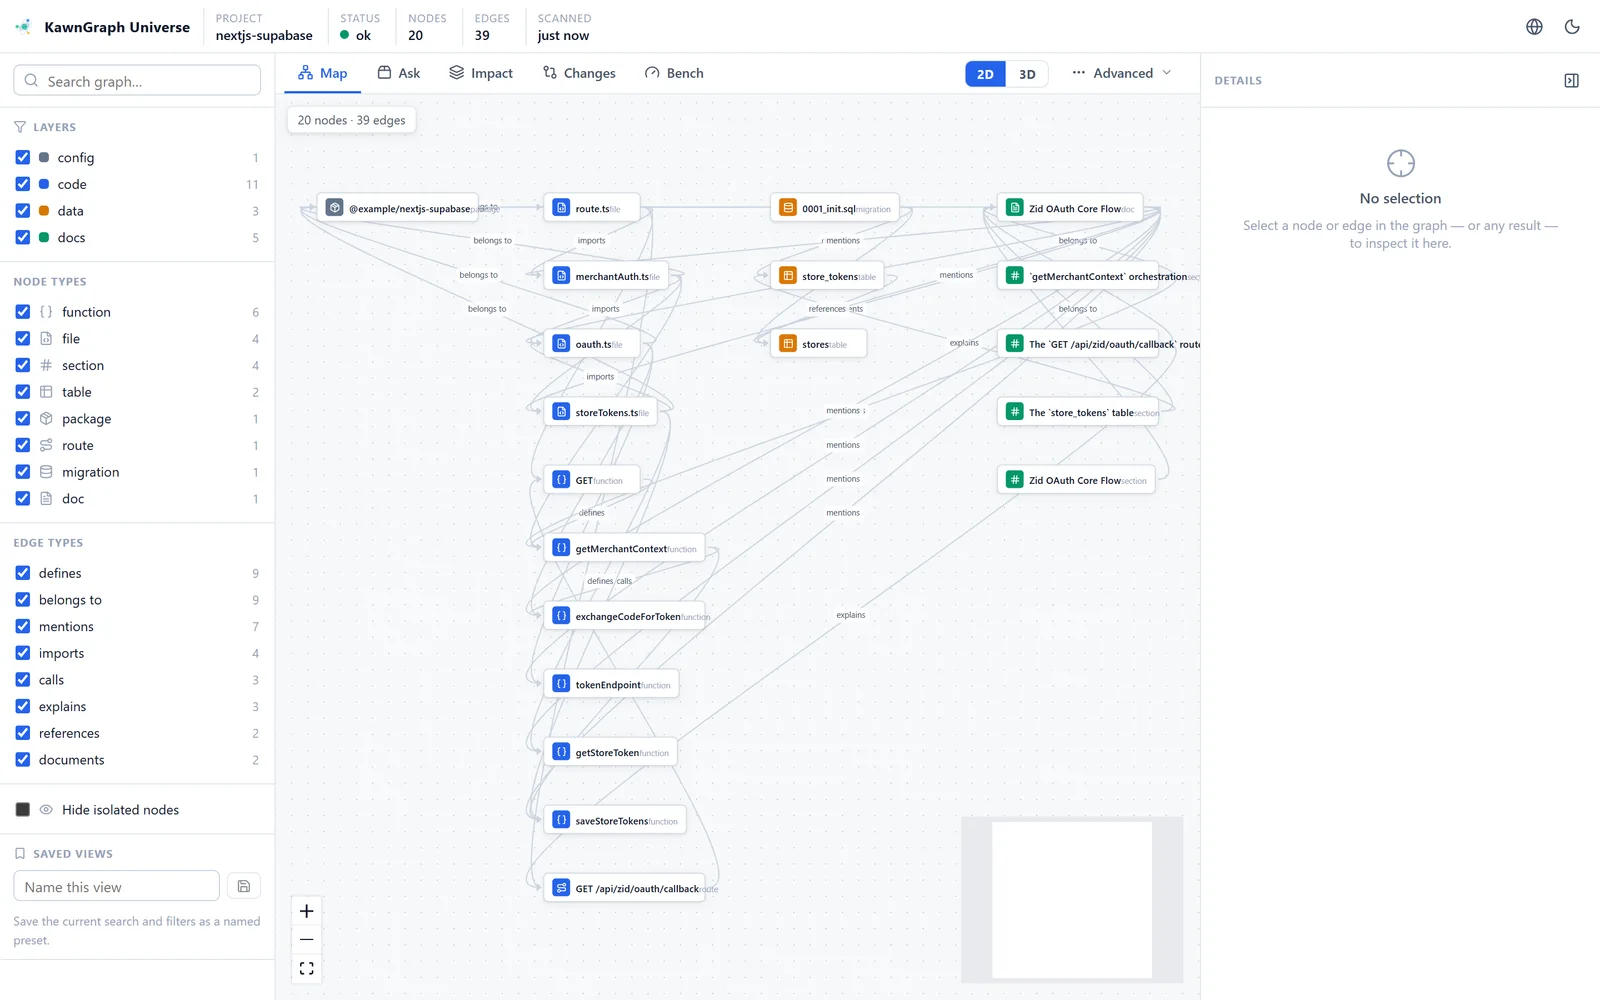
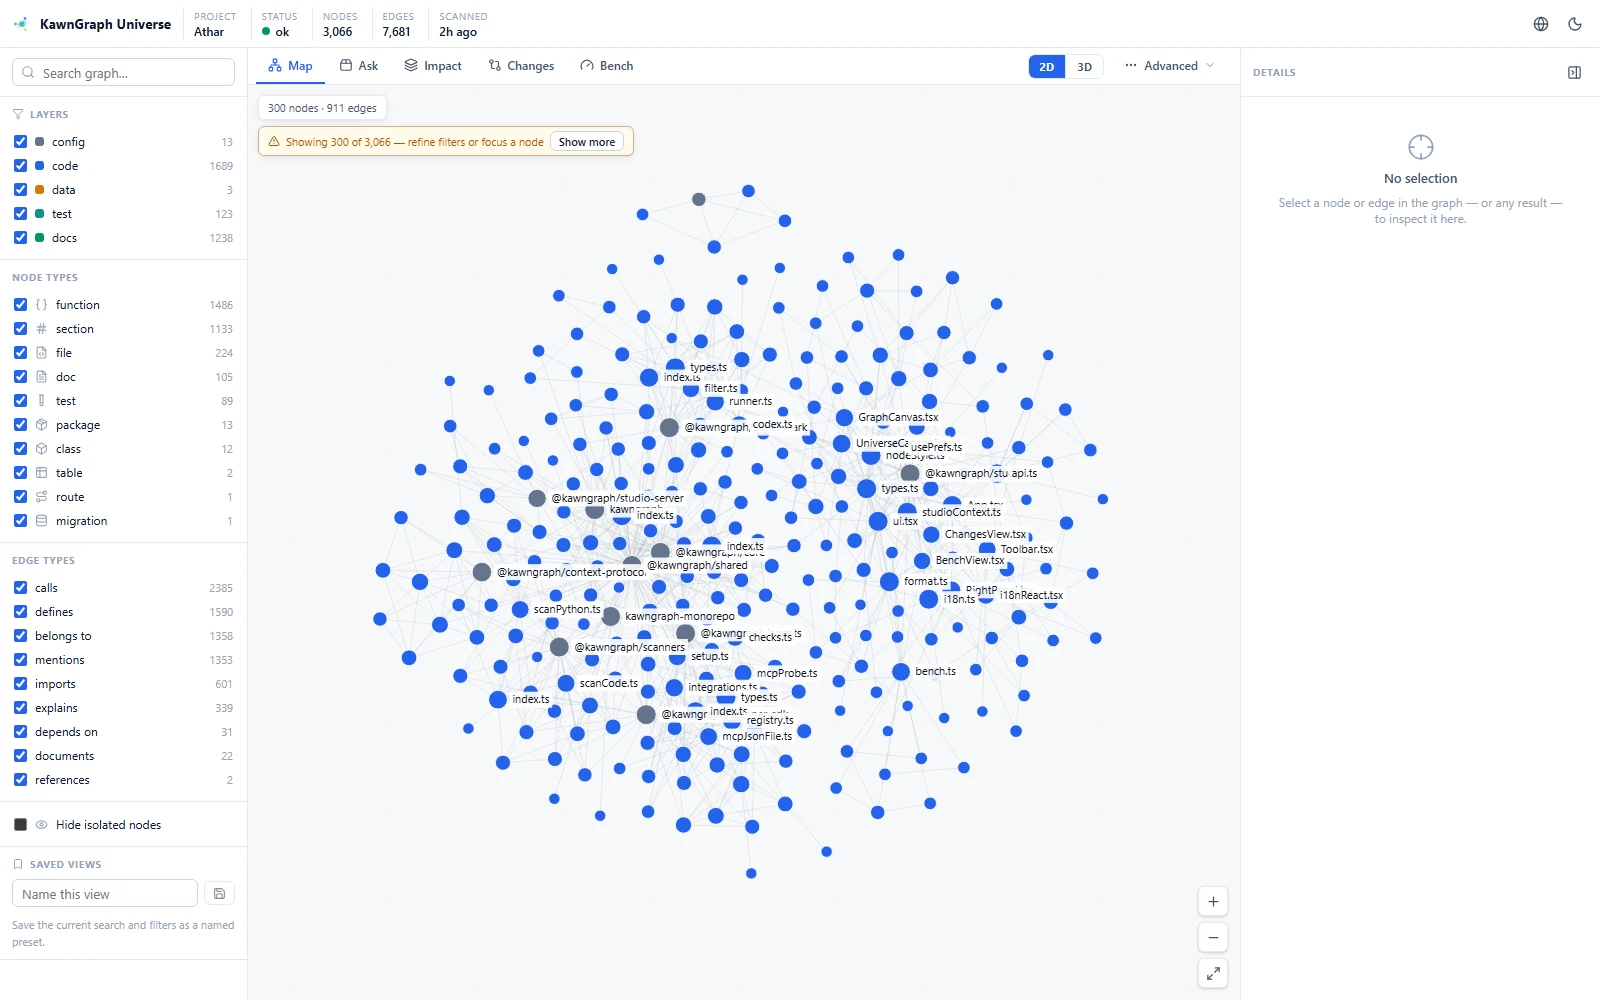
docs(studio): refresh 2D Map screenshot to the constellation view
Replace the old React-Flow boxes screenshot with the new force-directed
constellation Map (captured live from `kawn map`), and fix the now-stale caption
("bundled example project" / "labeled evidence-backed edges") in README.md and
README.ar.md to describe the star-map (nodes coloured by layer, sized by degree,
LOD labels). Re-stamped 30 translations.

Verified: build, 409 tests (parity 247), translation parity 30/30, bench clean.

diff --git a/README.ar.md b/README.ar.md
@@ -2,7 +2,7 @@
 lang: ar
 status: ai-assisted
 canonical: README.md
-canonical-sha: eba313e4ecca3a6d315fe5d39edf1fb854167bc430af5f109c49db7effa99be9
+canonical-sha: fa965807adf98799984ab7bd27028a428bac7355a8bf9ef878d0b0254a71fb90
 -->
 
 <div dir="rtl" align="center">
@@ -223,8 +223,8 @@ Excluded     unrelated UI components (over budget)   ·   confidence 0.6
 </div>
 
 <div align="center">
-<img src="docs/assets/studio-map.webp" alt="استوديو KawnGraph — العرض ثنائي الأبعاد لرسم المشروع المثال المرفق: ملفات ودوال ومسارات وجداول ووثائق كعقد مع حواف مدعومة بالأدلة (imports، calls، defines، mentions، explains)، مع مرشّحات الطبقات/الأنواع/الحواف." width="860">
-<br><sub>العرض <b>ثنائي الأبعاد</b> — المشروع المثال المرفق، مع مرشّحات الطبقات/الأنواع/الحواف.</sub>
+<img src="docs/assets/studio-map.webp" alt="استوديو KawnGraph — خريطة الكوكبة ثنائية الأبعاد: رسم هذا المستودع كخريطة نجوم موجّهة بالقوى، عقد دائرية ملوّنة حسب الطبقة (الأكبر = أعلى ارتباطًا)، حواف رفيعة، تسميات حسب مستوى التكبير، ومرشّحات الطبقات/الأنواع/الحواف." width="860">
+<br><sub>خريطة <b>الكوكبة ثنائية الأبعاد</b> — خريطة نجوم موجّهة بالقوى للرسم البياني (عقد ملوّنة حسب الطبقة، بحجم حسب الارتباط)، مع مرشّحات وبحث وتمرير وتكبير.</sub>
 </div>
 
 ---

diff --git a/README.md b/README.md
@@ -226,8 +226,8 @@ pnpm kawn map`.
 </div>
 
 <div align="center">
-<img src="docs/assets/studio-map.webp" alt="KawnGraph Studio — the 2D graph view of the bundled example project: files, functions, routes, tables, and docs as nodes with labeled evidence-backed edges (imports, calls, defines, mentions, explains), plus layer/type/edge filters." width="860">
-<br><sub>The 2D <b>graph</b> view — the bundled example project, with layer / type / edge filters.</sub>
+<img src="docs/assets/studio-map.webp" alt="KawnGraph Studio — the 2D constellation Map: this repository's graph as a force-directed star-map of circular nodes coloured by layer (bigger = higher-degree), thin edges, level-of-detail labels, and layer/type/edge filters." width="860">
+<br><sub>The 2D <b>constellation Map</b> — a force-directed star-map of the graph (nodes coloured by layer, sized by degree), with filters, search, hover, and zoom.</sub>
 </div>
 
 ---

diff --git a/docs/i18n/README.cs.md b/docs/i18n/README.cs.md
@@ -2,7 +2,7 @@
 lang: cs
 status: machine-assisted
 canonical: README.md
-canonical-sha: eba313e4ecca3a6d315fe5d39edf1fb854167bc430af5f109c49db7effa99be9
+canonical-sha: fa965807adf98799984ab7bd27028a428bac7355a8bf9ef878d0b0254a71fb90
 -->
 
 <div align="center">

diff --git a/docs/i18n/README.da.md b/docs/i18n/README.da.md
@@ -2,7 +2,7 @@
 lang: da
 status: machine-assisted
 canonical: README.md
-canonical-sha: eba313e4ecca3a6d315fe5d39edf1fb854167bc430af5f109c49db7effa99be9
+canonical-sha: fa965807adf98799984ab7bd27028a428bac7355a8bf9ef878d0b0254a71fb90
 -->
 
 <div align="center">

diff --git a/docs/i18n/README.de.md b/docs/i18n/README.de.md
@@ -2,7 +2,7 @@
 lang: de
 status: machine-assisted
 canonical: README.md
-canonical-sha: eba313e4ecca3a6d315fe5d39edf1fb854167bc430af5f109c49db7effa99be9
+canonical-sha: fa965807adf98799984ab7bd27028a428bac7355a8bf9ef878d0b0254a71fb90
 -->
 
 <div align="center">

diff --git a/docs/i18n/README.el.md b/docs/i18n/README.el.md
@@ -2,7 +2,7 @@
 lang: el
 status: machine-assisted
 canonical: README.md
-canonical-sha: eba313e4ecca3a6d315fe5d39edf1fb854167bc430af5f109c49db7effa99be9
+canonical-sha: fa965807adf98799984ab7bd27028a428bac7355a8bf9ef878d0b0254a71fb90
 -->
 
 <div align="center">

diff --git a/docs/i18n/README.es.md b/docs/i18n/README.es.md
@@ -2,7 +2,7 @@
 lang: es
 status: machine-assisted
 canonical: README.md
-canonical-sha: eba313e4ecca3a6d315fe5d39edf1fb854167bc430af5f109c49db7effa99be9
+canonical-sha: fa965807adf98799984ab7bd27028a428bac7355a8bf9ef878d0b0254a71fb90
 -->
 
 <div align="center">

diff --git a/docs/i18n/README.fa.md b/docs/i18n/README.fa.md
@@ -2,7 +2,7 @@
 lang: fa
 status: machine-assisted
 canonical: README.md
-canonical-sha: eba313e4ecca3a6d315fe5d39edf1fb854167bc430af5f109c49db7effa99be9
+canonical-sha: fa965807adf98799984ab7bd27028a428bac7355a8bf9ef878d0b0254a71fb90
 -->
 
 <div dir="rtl">

diff --git a/docs/i18n/README.fi.md b/docs/i18n/README.fi.md
@@ -2,7 +2,7 @@
 lang: fi
 status: machine-assisted
 canonical: README.md
-canonical-sha: eba313e4ecca3a6d315fe5d39edf1fb854167bc430af5f109c49db7effa99be9
+canonical-sha: fa965807adf98799984ab7bd27028a428bac7355a8bf9ef878d0b0254a71fb90
 -->
 
 <div align="center">

diff --git a/docs/i18n/README.fr.md b/docs/i18n/README.fr.md
@@ -2,7 +2,7 @@
 lang: fr
 status: machine-assisted
 canonical: README.md
-canonical-sha: eba313e4ecca3a6d315fe5d39edf1fb854167bc430af5f109c49db7effa99be9
+canonical-sha: fa965807adf98799984ab7bd27028a428bac7355a8bf9ef878d0b0254a71fb90
 -->
 
 <div align="center">

diff --git a/docs/i18n/README.he.md b/docs/i18n/README.he.md
@@ -2,7 +2,7 @@
 lang: he
 status: machine-assisted
 canonical: README.md
-canonical-sha: eba313e4ecca3a6d315fe5d39edf1fb854167bc430af5f109c49db7effa99be9
+canonical-sha: fa965807adf98799984ab7bd27028a428bac7355a8bf9ef878d0b0254a71fb90
 -->
 
 <div dir="rtl">

diff --git a/docs/i18n/README.hi.md b/docs/i18n/README.hi.md
@@ -2,7 +2,7 @@
 lang: hi
 status: machine-assisted
 canonical: README.md
-canonical-sha: eba313e4ecca3a6d315fe5d39edf1fb854167bc430af5f109c49db7effa99be9
+canonical-sha: fa965807adf98799984ab7bd27028a428bac7355a8bf9ef878d0b0254a71fb90
 -->
 
 <div align="center">